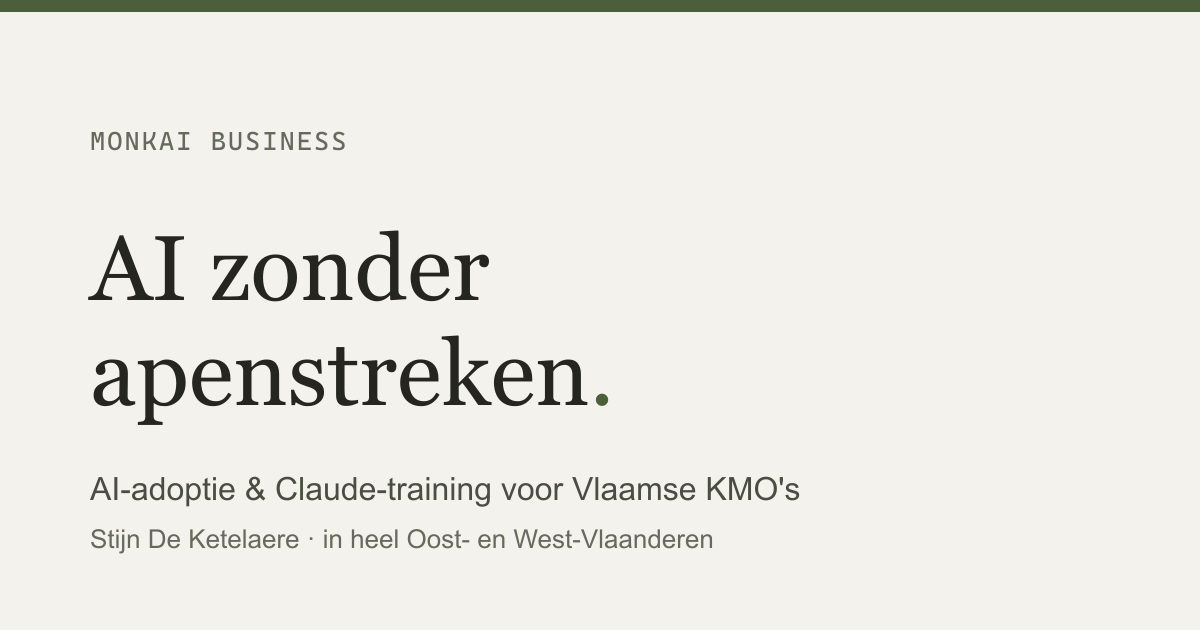
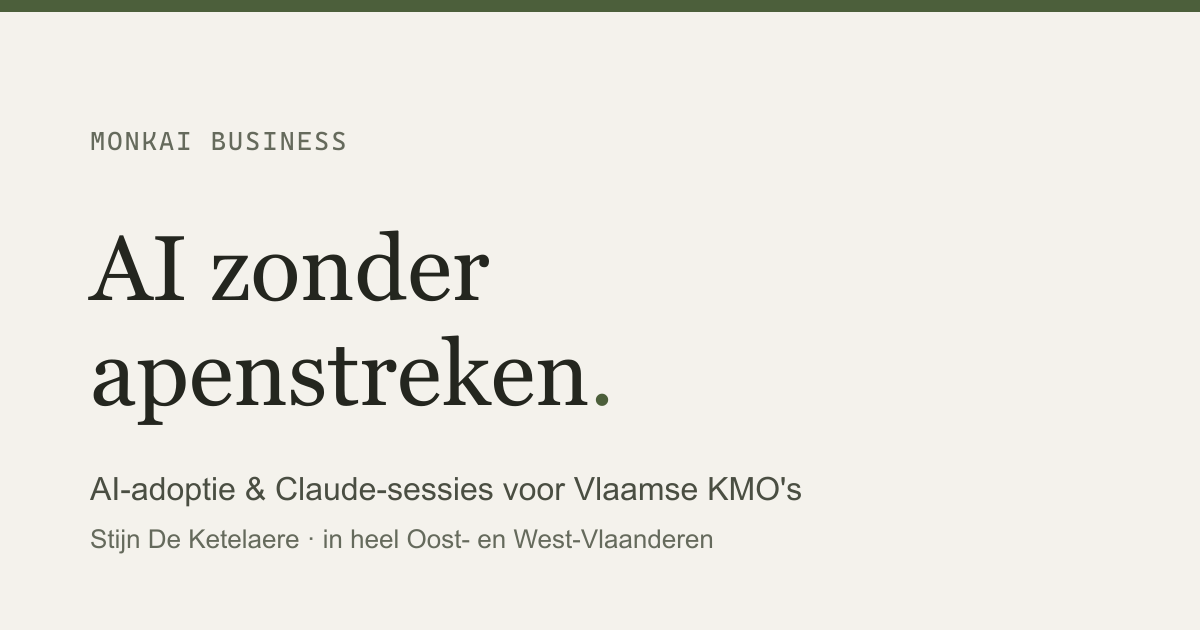
copy: positionering naar Claude-sessies i.p.v. formele opleidingen
Sitewide 'Claude-training/opleiding' -> 'Claude-sessies' (inspiratie +
sparring in kleine groepen); formele opleidingen worden doorverwezen.
Aangepast: Faq, Services, Approach, Hero-meta, index-title, BaseLayout
meta + schema (knowsAbout), llms.txt, OG-image. Titel-em-dash -> '-'.
CLAUDE.md: lesson 12 + cover-ratio's (2:1/16:9) in lesson 10 gecorrigeerd.

Changed region(s): [[0.3083, 0.754, 0.6783, 0.8143]]

diff --git a/CLAUDE.md b/CLAUDE.md
@@ -218,5 +218,6 @@ Running log — append an entry here after any future session that changes this 
 7. Responsive behavior: multi-column grids collapse to a single column at `max-width: 768px`. Watch for `flex` rows with `flex-wrap: nowrap` and many inline items (e.g. the hero meta row) — these can overflow horizontally at narrow widths (390px) even when the surrounding grid collapses correctly; test the narrowest supported width explicitly, not just one intermediate breakpoint.
 8. **SEO/AI-SEO/GEO layer (added 2026-07):** `BaseLayout.astro` is now the single source of head SEO — it builds a self-referencing `<link rel="canonical">` from `Astro.url`, Open Graph + Twitter tags, and always emits sitewide JSON-LD (`ProfessionalService` `#business` + `Person` `#stijn`, with `areaServed` = Oost-/West-Vlaanderen, Gent, Vlaamse Ardennen and `knowsAbout` = AI-adoptie, Claude-training, second/collective brain). It accepts `noindex` (used on `/bedankt`) and a `schema` prop (array of extra JSON-LD objects). Blog posts pass `BlogPosting` + `BreadcrumbList`; use cases pass `BreadcrumbList`. Target keywords are woven into copy + schema, never stuffed (stuffing costs ~-10% AI visibility). `Faq.astro` (homepage, between About and Contact) renders a `FAQPage` and is the main hook for AI citations. Sitemap via `@astrojs/sitemap` (config filters out `/bedankt`) at `/sitemap-index.xml`; `public/robots.txt` allows AI bots (GPTBot, ClaudeBot, PerplexityBot, Google-Extended, …) and references the sitemap; `public/llms.txt` gives AI systems a site overview. The `og:image` is a real 1200×630 PNG (`public/og-image.png`) rasterized from `public/og-image.svg` with sharp (regenerate: `sharp(svg).resize(1200,630).png()`); the SVG is kept as editable source. Legal pages `/privacy` and `/cookies` exist via a shared `LegalLayout.astro` (BaseLayout + Nav + Footer + prose); footer links and the contact-form privacy link point to `/privacy` and `/cookies` (no more dead `#` anchors). A ready-to-use Google Business Profile setup pack lives at `docs/google-business-profile.md` — Claude can't create the GBP itself (needs the user's Google account + verification), so it's pre-filled for copy-paste. **Still open:** the user must actually create/verify the GBP, and fonts are still loaded from Google Fonts (self-hosting would help LCP + GDPR).
 9. **Analytics + copy corrections (2026-07-24):** PostHog is wired **cookieless** via `src/components/Analytics.astro` (included in `BaseLayout` head): EU host (`eu.i.posthog.com`), `persistence: 'memory'` (no cookies, no localStorage → **no consent banner needed**), `person_profiles: 'identified_only'`, session recording disabled, `respect_dnt: true`. The component only renders when `PUBLIC_POSTHOG_KEY` is set (env var; `.env.example` documents it), so a keyless build simply omits it — verified: with a dummy key the EU host + `persistence:'memory'` appear in `dist/index.html`; without, `posthog` count is 0. The Netlify env var `PUBLIC_POSTHOG_KEY` must be set for production (Astro inlines `PUBLIC_` vars at build). Primary conversion event **`contact_submitted`** fires via an inline script on `/bedankt` (Netlify form `action="/bedankt"`); other clicks are covered by PostHog autocapture. Tradeoff of `persistence:'memory'` on this MPA: each pageload is a fresh anonymous id, so "unique visitors" ≈ pageviews — that's the price of cookieless/no-consent. `/cookies` and `/privacy` were rewritten to disclose the cookieless analytics (legal basis: **gerechtvaardigd belang**, no consent required because it's cookieless + anonymous + honours DNT). Also this session: contact email changed sitewide `hallo@` → **`stijn@monkai.business`**; region framing broadened from "van Gent tot de Vlaamse Ardennen" to **"heel Oost- en West-Vlaanderen"** in the meta-description default (`BaseLayout`), `llms.txt`, and the OG image (SVG text edited + `og-image.png` re-rasterized with sharp). `areaServed` in the schema still lists both provinces + Gent + Vlaamse Ardennen (kept as extra served places — good for local SEO). Domain is fully `monkai.business` everywhere; site is hosted on monkai.business only.
-10. **Writing style + blog covers (2026-07-24):** Added a **hard house-style rule** (see "Writing style" near the top): never use em/en dashes (— –), always a plain `-`; avoid AI-slop tics. All four blog posts were swept for dashes. Blog posts now support optional `image` + `imageAlt` frontmatter: rendered as a 3:2 cover on the detail page and as full-bleed card thumbnails in `/blog` + `BlogTeaser` (cards were restructured: `padding` moved off `.card` onto a `.card-body`, image sits above with `overflow:hidden` on the card). The four covers are **hand-authored on-brand SVGs** in `public/media/blog/` — chosen because there is no image-generation tool available in-session (the user first wanted AI photos, then opted for SVG). Brand hex is hardcoded inside each SVG on purpose: a `<img src>`-loaded SVG does **not** inherit `tokens.css` CSS variables. `image` also feeds the `BlogPosting` JSON-LD.
+10. **Writing style + blog covers (2026-07-24):** Added a **hard house-style rule** (see "Writing style" near the top): never use em/en dashes (— –), always a plain `-`; avoid AI-slop tics. All four blog posts were swept for dashes. Blog posts now support optional `image` + `imageAlt` frontmatter: rendered as a **2:1 banner cover** on the detail page and as full-bleed **16:9 card thumbnails** in `/blog` + `BlogTeaser` (cards were restructured: `padding` moved off `.card` onto a `.card-body`, image sits above with `overflow:hidden` on the card). **Gotcha:** the `<img>` has `width`/`height` attributes (for CLS), which map to a fixed CSS `height` and make `aspect-ratio` a no-op — the images render at the attribute height regardless of ratio. Fix is `height: auto` in the CSS alongside `aspect-ratio` + `object-fit: cover`. Motifs sit in the central band of each 3:2 SVG, so the 2:1/16:9 crops don't cut anything important. The four covers are **hand-authored on-brand SVGs** in `public/media/blog/` — chosen because there is no image-generation tool available in-session (the user first wanted AI photos, then opted for SVG). Brand hex is hardcoded inside each SVG on purpose: a `<img src>`-loaded SVG does **not** inherit `tokens.css` CSS variables. `image` also feeds the `BlogPosting` JSON-LD.
 11. **`/data` besloten zone (2026-07-24):** Added a hidden resources page at `/data` with a **client-side-only** login (`monkai`/`business`) and five tool tabs filtering a new `resources` content collection (downloads live in `public/data/files/`). The user explicitly accepted that this is **obscurity, not security** (password in source, files reachable by direct URL) — fine for non-sensitive workshop material; never present it as protected. **Gotcha caught in visual QA:** toggling an element's `hidden` attribute does nothing if author CSS sets `display` on it — `.gate{display:flex}` beat the UA `[hidden]{display:none}`, so both the login card and the content showed at once. Fixed with `[hidden]{display:none !important}`. Lesson: when using the `hidden` attribute as a visibility toggle, add that override, and always screenshot JS-driven show/hide states rather than trusting a green build. `/data` is `noindex` + filtered out of the sitemap; not linked anywhere.
+12. **Positioning correction - sessies, geen formele opleidingen (2026-07-25):** Stijn levert zelf **inspiratiesessies en sparringsessies in kleine groepen**; voor **concrete/formele opleidingen verwijst hij door** naar partners. Do NOT describe MonkAi as giving "Claude-training/opleidingen" as a course. Copy swept accordingly: the FAQ item "Doe je Claude-training voor bedrijven?" answer reframed (question text kept - it's the search phrase people use, a deliberate AEO hook); the two Services cards renamed `Claude-training voor kenniswerkers/developers` → **`Claude voor kenniswerkers/developers`** (both stress "in kleine groepen"); `AI-geletterdheid`-card and `Approach` step 04 dropped the word "opleiding" (→ "op maat" / "begeleiding"); the sitewide word **"Claude-training" → "Claude-sessies"** in the page `<title>`, `BaseLayout` default meta-description + both schema descriptions + both `knowsAbout` arrays, `llms.txt`, and the OG image (`og-image.svg` text edited, `og-image.png` re-rasterized with sharp per lesson #8). Hero meta row changed from `2 uur | 10 deelnemers | bij jou op locatie` to **`Inspiratiesessie | Sparring in kleine groepen | bij jou op locatie`** (user didn't want a headcount there). **Still carrying the old framing (left untouched, flag when relevant):** the Services `AI-inspiratiesessie` card still reads "Twee uur, tien deelnemers, bij jou op locatie", and `docs/google-business-profile.md` still says "Claude-training voor kenniswerkers/developers" + "Opleiding op maat" - update that GBP pack before the user pastes it into Google.
